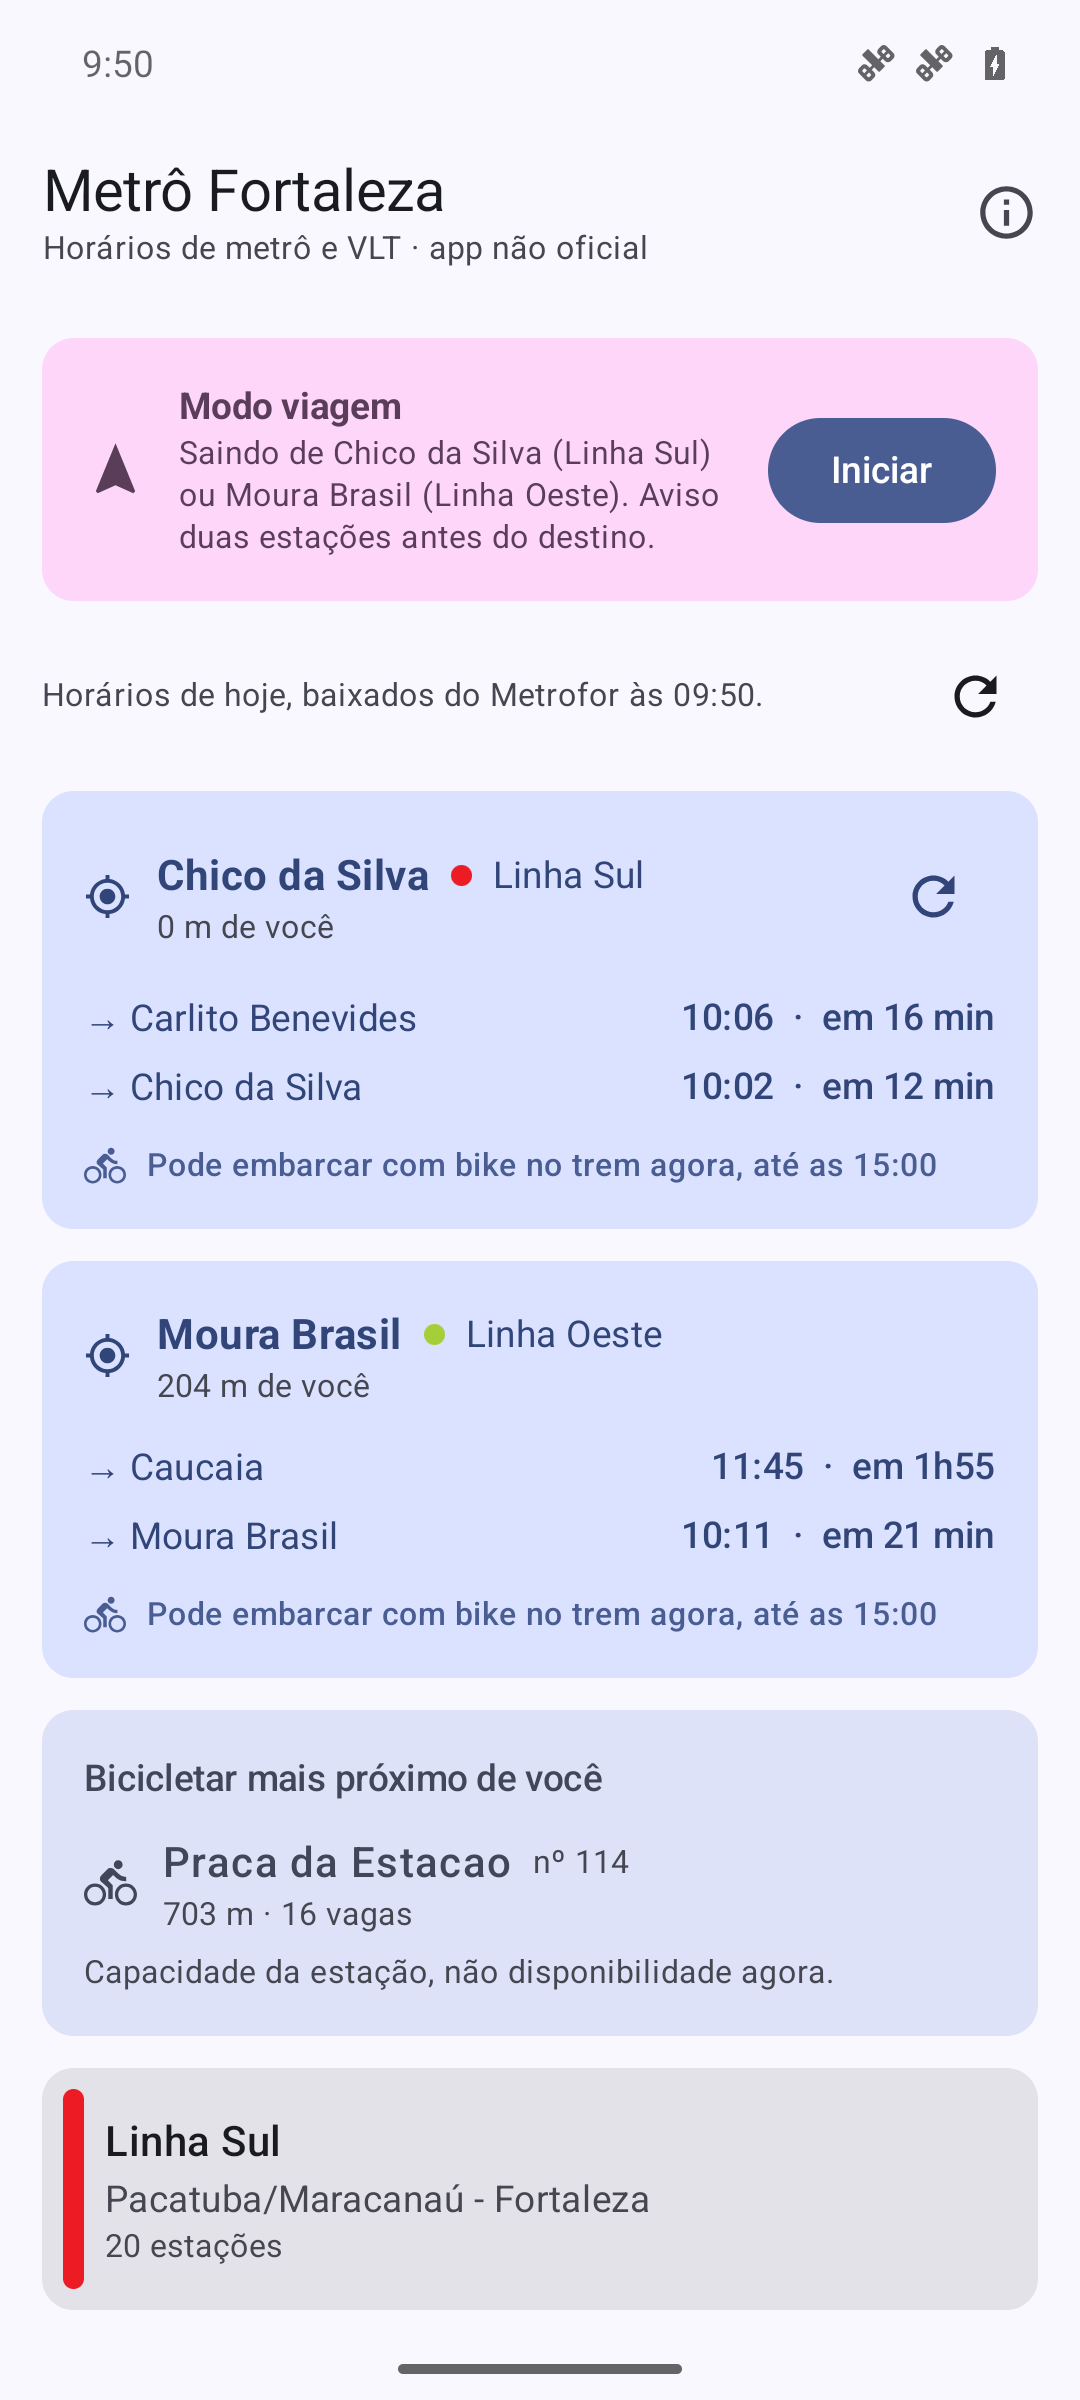
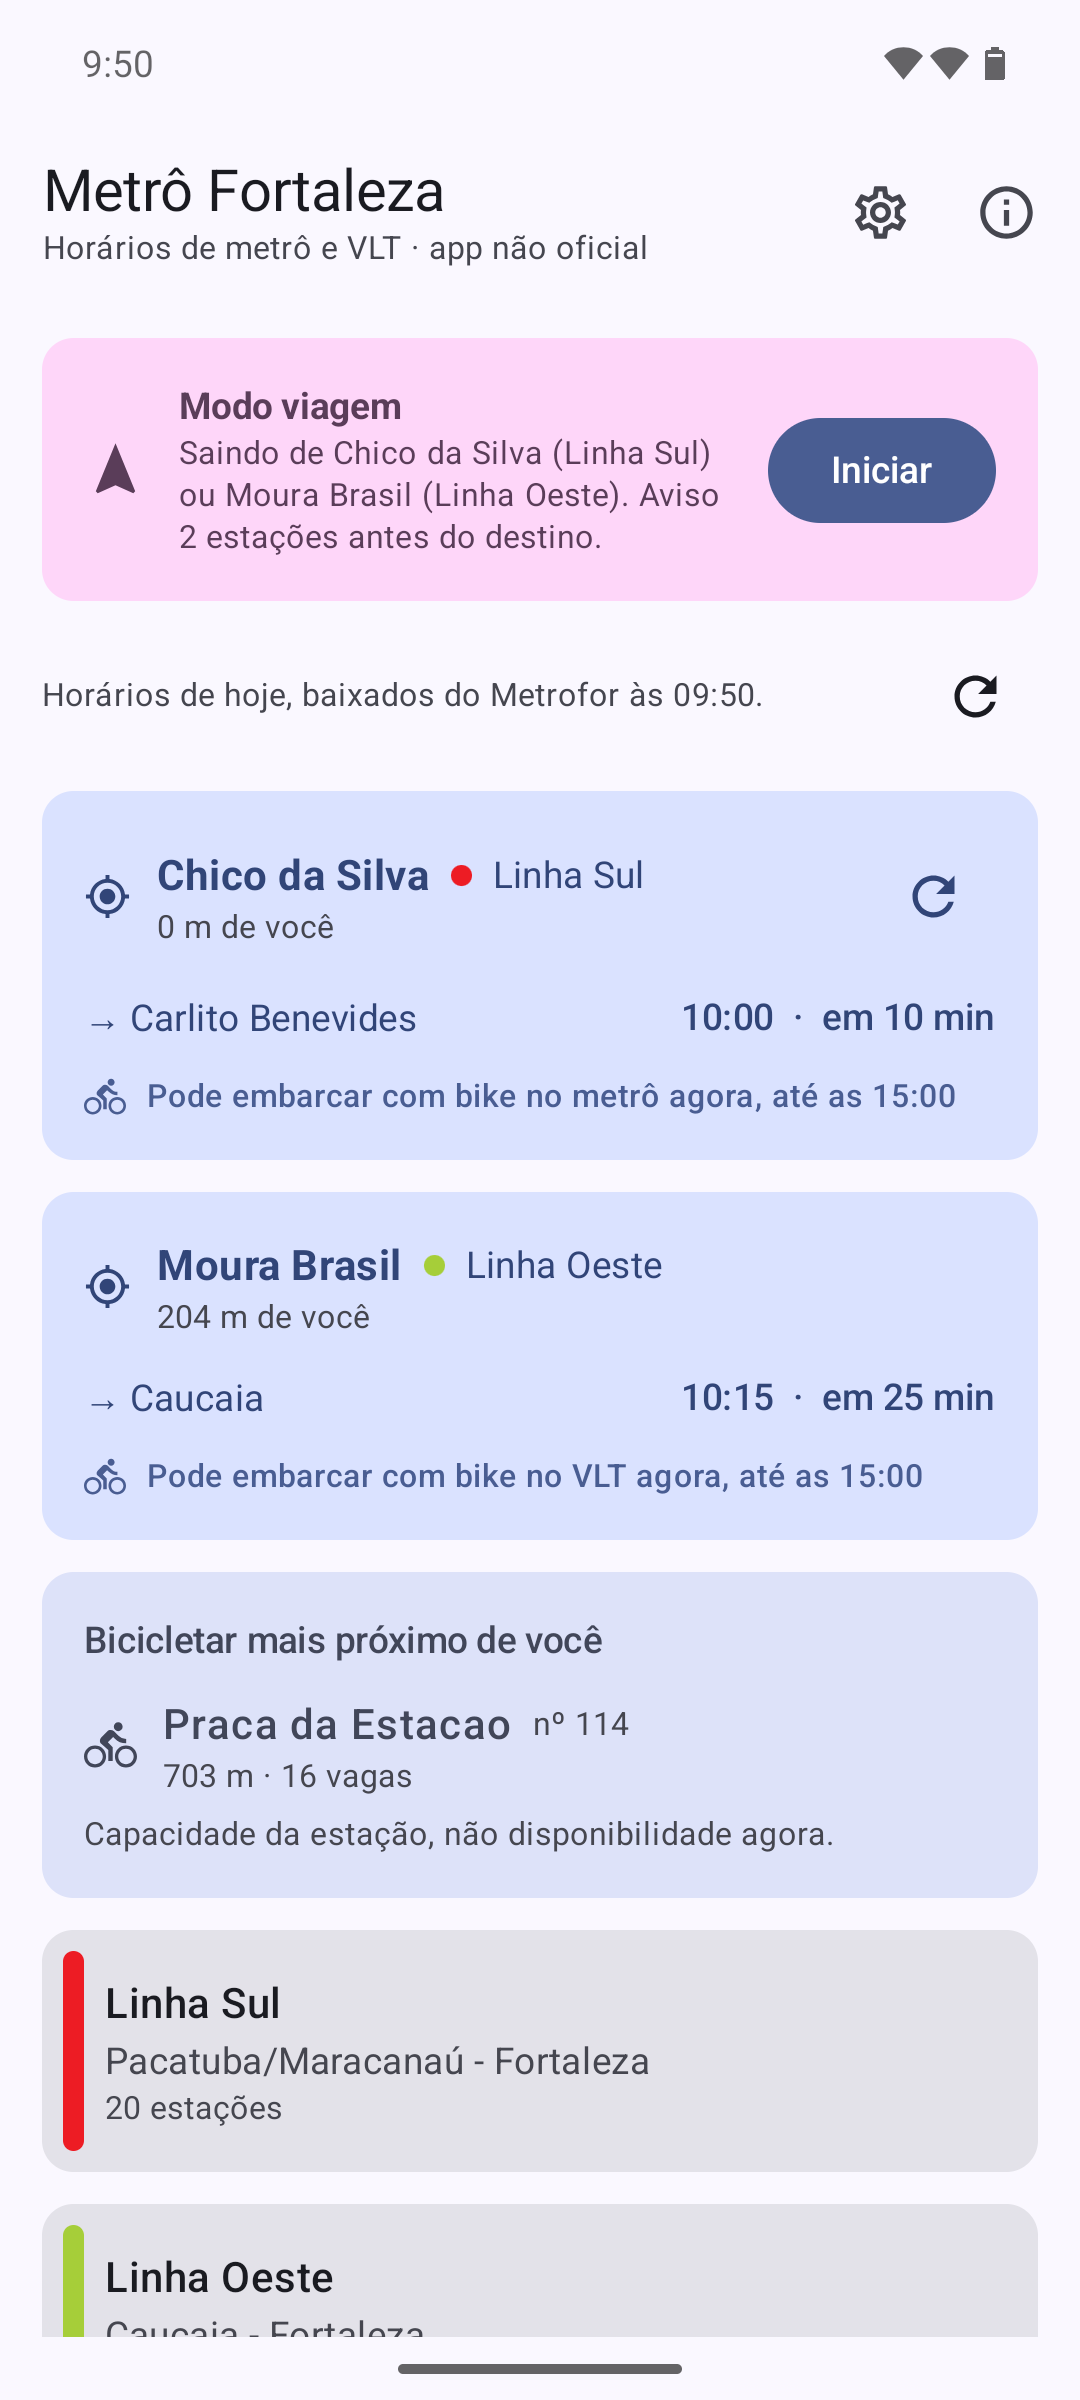
Página de apresentação do app e capturas de tela atualizadas
- docs/: página pública (GitHub Pages) para quem não é programador: o
  que o app faz, por que é seguro, como instalar e onde baixar, com
  prévia de link (Open Graph) para o WhatsApp e marcações para o Google.
- Capturas de tela do F-Droid refeitas com o app atual (sem "trem" e
  sem o sentido de chegada nos terminais).

diff --git a/docs/index.html b/docs/index.html
@@ -1,0 +1,191 @@
+<!doctype html>
+<html lang="pt-BR">
+<head>
+<meta charset="utf-8">
+<meta name="viewport" content="width=device-width, initial-scale=1">
+<title>Metrô Fortaleza — horários de metrô e VLT no celular (app Android)</title>
+<meta name="description" content="App Android gratuito e não oficial com os horários do metrô e do VLT de Fortaleza, Sobral e Cariri: próxima partida da estação mais perto, modo viagem que avisa antes de descer e Bicicletar. Sem anúncios.">
+<link rel="canonical" href="https://giovanildo.github.io/metro-fortaleza-horarios/">
+<link rel="icon" type="image/png" href="img/icon.png">
+<meta name="theme-color" content="#ED1C24">
+
+<!-- Prévia ao colar o link no WhatsApp, Instagram, Facebook etc. -->
+<meta property="og:type" content="website">
+<meta property="og:locale" content="pt_BR">
+<meta property="og:site_name" content="Metrô Fortaleza">
+<meta property="og:title" content="Metrô Fortaleza — horários de metrô e VLT no celular">
+<meta property="og:description" content="App Android gratuito e não oficial: próxima partida da estação mais perto, aviso antes de descer e Bicicletar. Sem anúncios.">
+<meta property="og:url" content="https://giovanildo.github.io/metro-fortaleza-horarios/">
+<meta property="og:image" content="https://giovanildo.github.io/metro-fortaleza-horarios/img/previa.png">
+<meta property="og:image:width" content="1200">
+<meta property="og:image:height" content="630">
+<meta name="twitter:card" content="summary_large_image">
+
+<script type="application/ld+json">
+{
+  "@context": "https://schema.org",
+  "@type": "SoftwareApplication",
+  "name": "Metrô Fortaleza",
+  "operatingSystem": "Android 7+",
+  "applicationCategory": "TravelApplication",
+  "description": "Horários do metrô e do VLT de Fortaleza, Sobral e Cariri. App não oficial, gratuito e de código aberto.",
+  "offers": { "@type": "Offer", "price": "0", "priceCurrency": "BRL" },
+  "downloadUrl": "https://github.com/giovanildo/metro-fortaleza-horarios/releases/latest",
+  "license": "https://www.gnu.org/licenses/gpl-3.0.html"
+}
+</script>
+
+<style>
+  :root {
+    --red: #ED1C24; --red-dark: #B5121A;
+    --bg: #ffffff; --text: #1d1b1e; --muted: #5a5762; --card: #f6f2f5; --line: #e6e0e6;
+  }
+  @media (prefers-color-scheme: dark) {
+    :root { --bg: #141217; --text: #eee9ee; --muted: #b9b2bb; --card: #221f25; --line: #34303a; }
+  }
+  * { box-sizing: border-box; }
+  body {
+    margin: 0; background: var(--bg); color: var(--text);
+    font: 17px/1.55 system-ui, -apple-system, "Segoe UI", Roboto, "Noto Sans", sans-serif;
+  }
+  a { color: var(--red); }
+  .wrap { max-width: 920px; margin: 0 auto; padding: 0 20px; }
+
+  header { background: var(--red); color: #fff; padding: 48px 0 40px; }
+  .hero { display: flex; gap: 24px; align-items: center; flex-wrap: wrap; }
+  .hero img { width: 104px; height: 104px; border-radius: 24px; border: 4px solid #fff; }
+  h1 { font-size: 2.3rem; line-height: 1.15; margin: 0; }
+  .tagline { font-size: 1.2rem; margin: 6px 0 0; opacity: .95; }
+  .buttons { display: flex; gap: 12px; flex-wrap: wrap; margin-top: 28px; }
+  .btn {
+    display: inline-block; padding: 14px 22px; border-radius: 999px; font-weight: 700;
+    text-decoration: none; font-size: 1.05rem;
+  }
+  .btn-main { background: #fff; color: var(--red); }
+  .btn-ghost { border: 2px solid #fff; color: #fff; }
+  .small { font-size: .9rem; opacity: .9; margin-top: 12px; }
+
+  .notice {
+    background: var(--card); border-left: 5px solid var(--red); border-radius: 8px;
+    padding: 14px 18px; margin: 28px 0 0;
+  }
+  section { padding: 36px 0 8px; }
+  h2 { font-size: 1.5rem; margin: 0 0 14px; }
+  .features { display: grid; grid-template-columns: repeat(auto-fit, minmax(240px, 1fr)); gap: 16px; }
+  .feature { background: var(--card); border-radius: 16px; padding: 18px; }
+  .feature h3 { margin: 0 0 6px; font-size: 1.1rem; }
+  .feature p { margin: 0; color: var(--muted); }
+  .shots { display: grid; grid-template-columns: repeat(auto-fit, minmax(200px, 1fr)); gap: 16px; margin-top: 20px; }
+  .shots figure { margin: 0; text-align: center; }
+  .shots img {
+    width: 100%; max-width: 260px; border-radius: 22px; border: 6px solid #1d1b1e;
+    box-shadow: 0 8px 24px rgba(0,0,0,.18);
+  }
+  .shots figcaption { color: var(--muted); font-size: .95rem; margin-top: 8px; }
+  ol li, ul li { margin: 6px 0; }
+  .muted { color: var(--muted); }
+  footer { border-top: 1px solid var(--line); margin-top: 40px; padding: 24px 0 40px; color: var(--muted); font-size: .95rem; }
+</style>
+</head>
+<body>
+
+<header>
+  <div class="wrap">
+    <div class="hero">
+      <img src="img/icon.png" alt="Ícone do app Metrô Fortaleza">
+      <div>
+        <h1>Metrô Fortaleza</h1>
+        <p class="tagline">Horários de metrô e VLT no celular — Fortaleza, Sobral e Cariri.</p>
+      </div>
+    </div>
+    <div class="buttons">
+      <a class="btn btn-main" href="https://github.com/giovanildo/metro-fortaleza-horarios/releases/latest/download/metro-fortaleza.apk">⬇ Baixar para Android</a>
+      <a class="btn btn-ghost" href="#instalar">Como instalar</a>
+    </div>
+    <p class="small">Grátis · sem anúncios · sem cadastro · Android 7 ou mais novo</p>
+  </div>
+</header>
+
+<main class="wrap">
+  <p class="notice"><strong>App não oficial.</strong> Feito por um passageiro, sem ligação com o Metrofor nem com o Governo do Ceará. Os horários são os que o próprio Metrofor publica.</p>
+
+  <section>
+    <h2>O que o app faz</h2>
+    <div class="features">
+      <div class="feature">
+        <h3>🚉 Próxima partida perto de você</h3>
+        <p>Pelo GPS, mostra a estação mais próxima e quando sai o próximo metrô ou VLT, em cada sentido — e as outras linhas que passam por perto.</p>
+      </div>
+      <div class="feature">
+        <h3>🔔 Modo viagem</h3>
+        <p>Escolha o destino e guarde o celular: o app avisa duas estações antes de você descer, por notificação e voz, até com a tela desligada.</p>
+      </div>
+      <div class="feature">
+        <h3>💺 Ir sentado</h3>
+        <p>Perto do terminal, o app mostra como ir até ele e voltar sentado no mesmo metrô, e quanto tempo isso custa.</p>
+      </div>
+      <div class="feature">
+        <h3>🔁 Integração entre linhas</h3>
+        <p>Em Parangaba e Chico da Silva, mostra o próximo metrô ou VLT da outra linha que ainda dá para pegar, e se a integração é paga.</p>
+      </div>
+      <div class="feature">
+        <h3>🚲 Bicicletar e bike no metrô</h3>
+        <p>A estação do Bicicletar mais perto e se dá para levar a bike no metrô agora, pelas regras do Metrofor.</p>
+      </div>
+      <div class="feature">
+        <h3>📅 Horários do dia</h3>
+        <p>Baixa a grade do próprio dia — inclusive sábado e operação especial, como em dia de eleição. Sem internet, usa a última guardada.</p>
+      </div>
+    </div>
+
+    <div class="shots">
+      <figure><img src="img/tela-1.jpg" alt="Tela inicial com as estações mais próximas" loading="lazy"><figcaption>Estações perto de você</figcaption></figure>
+      <figure><img src="img/tela-2.jpg" alt="Horários de uma estação" loading="lazy"><figcaption>Todos os horários</figcaption></figure>
+      <figure><img src="img/tela-3.jpg" alt="Modo viagem em andamento" loading="lazy"><figcaption>Modo viagem</figcaption></figure>
+    </div>
+  </section>
+
+  <section>
+    <h2>É seguro?</h2>
+    <ul>
+      <li><strong>Código aberto</strong> (licença GPL-3.0): qualquer pessoa pode ver e conferir tudo o que o app faz, <a href="https://github.com/giovanildo/metro-fortaleza-horarios">aqui no GitHub</a>.</li>
+      <li><strong>Sem anúncios, sem cadastro, sem rastreadores.</strong></li>
+      <li><strong>Sua localização fica no celular:</strong> é usada só para achar a estação mais perto e acompanhar a viagem. Nada é enviado para ninguém.</li>
+      <li>A internet é usada só para baixar os horários publicados pelo Metrofor.</li>
+    </ul>
+    <p class="muted">O Android mostra avisos ao instalar qualquer app que não venha da Play Store. Eles são normais para apps instalados por fora da loja — veja abaixo como seguir.</p>
+  </section>
+
+  <section id="instalar">
+    <h2>Como instalar</h2>
+    <ol>
+      <li>No celular Android, toque em <a href="https://github.com/giovanildo/metro-fortaleza-horarios/releases/latest/download/metro-fortaleza.apk"><strong>Baixar para Android</strong></a>.</li>
+      <li>Abra o arquivo <strong>metro-fortaleza.apk</strong> quando o download terminar.</li>
+      <li>Se o Android pedir, permita <strong>instalar apps desta fonte</strong> (para o navegador ou o gerenciador de arquivos).</li>
+      <li>Se o Google Play Protect avisar "app não verificado", toque em <strong>Mais detalhes → Instalar mesmo assim</strong>.</li>
+      <li>Abra o app e toque em <strong>Usar minha localização</strong>.</li>
+    </ol>
+    <p class="muted">Para receber as novas versões sozinho, use o app <a href="https://github.com/ImranR98/Obtainium">Obtainium</a> com o endereço do projeto. Também dá para ver <a href="https://github.com/giovanildo/metro-fortaleza-horarios/releases">todas as versões e novidades</a>.</p>
+  </section>
+
+  <section>
+    <h2>Apoie</h2>
+    <p>O app é gratuito e feito no tempo livre. Se ele te ajuda, você pode:</p>
+    <ul>
+      <li><strong>Compartilhar</strong> este endereço com quem anda de metrô: <strong>giovanildo.github.io/metro-fortaleza-horarios</strong></li>
+      <li><strong>Doar via Pix:</strong> giovanildos@gmail.com</li>
+      <li><strong>Sugerir melhorias ou avisar de problemas</strong> <a href="https://github.com/giovanildo/metro-fortaleza-horarios/issues">por aqui</a>.</li>
+    </ul>
+  </section>
+</main>
+
+<footer>
+  <div class="wrap">
+    Metrô Fortaleza — app <strong>não oficial</strong>, sem vínculo com o Metrofor, o Governo do Ceará ou a Prefeitura de Fortaleza.
+    Horários: GTFS público do Metrofor. Bicicletar: dados abertos da Prefeitura de Fortaleza (AMC).
+    Software livre sob a licença GPL-3.0.
+  </div>
+</footer>
+
+</body>
+</html>

diff --git a/README.md b/README.md
@@ -387,6 +387,19 @@ em 36 de propósito: subir o `targetSdk` muda comportamento em tempo de
 execução, e o app ainda não foi testado em aparelho. É a origem do único aviso
 de lint que sobrou.
 
+## Página de apresentação
+
+`docs/` é a página pública do app (GitHub Pages, publicada a partir de
+`main`/`docs`): `giovanildo.github.io/metro-fortaleza-horarios`. É um HTML só,
+sem dependências, feito para quem não é programador — o que o app faz, por que
+é seguro, como instalar (com os avisos do Android explicados) e onde baixar. Tem
+as marcações que o Google e as redes sociais leem (título, descrição, Open
+Graph com `img/previa.png` de 1200×630 para a prévia do link no WhatsApp,
+dados estruturados `SoftwareApplication`, `robots.txt` e `sitemap.xml`).
+
+As capturas em `docs/img/tela-*.jpg` são versões menores das de
+`fastlane/…/phoneScreenshots/`; ao refazer essas, refaça aquelas.
+
 ## Publicando uma versão no GitHub
 
 A release é assinada com uma chave própria, que fica **só na máquina de quem
